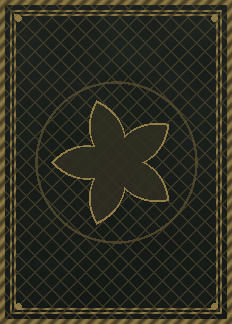
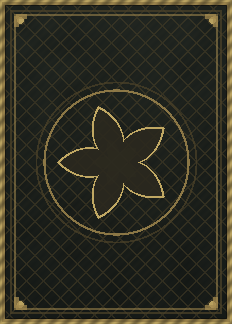
feat: polish card frames with depth, art vignette, and richer card back
Cards gain layered visual depth: paper-textured inner frame, artwork
vignette and sheen, brass corner brackets, role-tinted trim, and jewel
rarity pips. The generated card back adds herringbone weave, beveled
brass rails, and corner flourishes for a more premium table feel.

diff --git a/tools/generate_ui_assets.py b/tools/generate_ui_assets.py
@@ -241,15 +241,17 @@ def gen_battlefield_bg(path: str) -> None:
 def gen_card_back(path: str) -> None:
     W, H = 232, 324
     px = bytearray(W * H * 4)
-    base_top = (0.115, 0.135, 0.120)
-    base_bottom = (0.085, 0.10, 0.090)
-    brass = (0.60, 0.51, 0.29)
-    brass_dim = (0.34, 0.30, 0.185)
-    noise = value_noise(SEED + 11, 8, 12)
+    base_top = (0.118, 0.138, 0.122)
+    base_bottom = (0.082, 0.098, 0.088)
+    brass = (0.64, 0.54, 0.31)
+    brass_hi = (0.78, 0.68, 0.40)
+    brass_dim = (0.30, 0.26, 0.16)
+    noise = value_noise(SEED + 11, 10, 14)
+    weave = value_noise(SEED + 12, 6, 8)
 
     cx, cy = W / 2, H / 2
-    star_outer = 64.0
-    star_inner = 0.42
+    star_outer = 58.0
+    star_inner = 0.40
 
     for y in range(H):
         v = y / (H - 1)
@@ -257,36 +259,66 @@ def gen_card_back(path: str) -> None:
             u = x / (W - 1)
             base = mix(base_top, base_bottom, v)
             n = noise(u, v)
-            base = (base[0] * (0.93 + 0.14 * n), base[1] * (0.93 + 0.14 * n), base[2] * (0.93 + 0.14 * n))
+            w = weave(u * 1.4, v * 1.2)
+            base = (base[0] * (0.91 + 0.16 * n), base[1] * (0.91 + 0.16 * n), base[2] * (0.91 + 0.16 * n))
+            # subtle herringbone weave in the inner field
+            hb = abs((x + y) % 9 - 4.5) / 4.5
+            if 14 < min(x, y, W - 1 - x, H - 1 - y) < 108:
+                base = mix(base, brass_dim, (1.0 - hb) * 0.08 * (0.55 + 0.45 * w))
+
+            # radial spotlight behind emblem
+            dxs, dys = (x - cx) / (W * 0.42), (y - cy) / (H * 0.48)
+            spot = clamp01(1.0 - math.hypot(dxs, dys))
+            base = mix(base, (0.16, 0.15, 0.11), spot * 0.10)
 
             # diagonal lattice (45 deg, period 17px)
             d = (x + y) % 17
             if d <= 1 or (x - y) % 17 in (0, 1):
-                base = mix(base, brass_dim, 0.55)
+                base = mix(base, brass_dim, 0.48)
 
-            # borders: outer 5px, inner 2px at inset 11
             inset = min(x, y, W - 1 - x, H - 1 - y)
-            if inset < 5 or (10 <= inset <= 11) or (14 <= inset <= 15):
-                edge = 0.75 + 0.25 * math.sin((x + y) * 0.5)
-                col = (brass[0] * edge, brass[1] * edge, brass[2] * edge)
-                base = mix(base, col, 0.9)
+            # outer brass rail with bevel
+            if inset < 5:
+                edge = 0.70 + 0.30 * math.sin((x + y) * 0.45)
+                col = mix(brass_dim, brass_hi if inset < 2 else brass, edge)
+                base = mix(base, col, 0.92)
+            elif inset == 5:
+                base = mix(base, (0.05, 0.04, 0.03), 0.55)
+            elif 10 <= inset <= 11:
+                base = mix(base, brass_dim, 0.72)
+            elif 14 <= inset <= 15:
+                base = mix(base, brass, 0.55)
 
-            # center star emblem
+            # center star emblem with inner ring
             dx, dy = x - cx, y - cy
             dist = math.hypot(dx, dy)
             theta = (math.atan2(dy, dx) / (2 * math.pi) + 1.0) % 1.0
             sr = star_radius(theta, 5, star_inner) * star_outer
+            if dist <= sr * 0.42:
+                base = mix(base, brass_dim, 0.35)
             if dist <= sr:
-                base = mix(base, (0.19, 0.18, 0.135), 0.88)   # dark fill
-            if abs(dist - sr) <= 1.4:
-                base = mix(base, brass, 0.95)                # brass outline
-            if abs(dist - (star_outer + 16)) <= 1.2:         # halo ring
-                base = mix(base, brass_dim, 0.8)
+                base = mix(base, (0.17, 0.16, 0.12), 0.90)
+            if abs(dist - sr) <= 1.5:
+                base = mix(base, brass_hi, 0.96)
+            if abs(dist - (star_outer + 14)) <= 1.1:
+                base = mix(base, brass, 0.82)
+            if abs(dist - (star_outer + 22)) <= 0.9:
+                base = mix(base, brass_dim, 0.70)
 
             # corner rivets just inside inner border
-            for rx, ry in ((18, 18), (W - 18, 18), (18, H - 18), (W - 18, H - 18)):
-                if math.hypot(x - rx, y - ry) <= 3.2:
-                    base = mix(base, brass, 0.9)
+            for rx, ry in ((20, 20), (W - 20, 20), (20, H - 20), (W - 20, H - 20)):
+                rd = math.hypot(x - rx, y - ry)
+                if rd <= 3.4:
+                    base = mix(base, brass_hi, 0.92)
+                elif rd <= 4.6:
+                    base = mix(base, brass_dim, 0.55)
+
+            # corner bracket flourishes
+            for ox, oy, sx, sy in ((16, 16, 1, 1), (W - 17, 16, -1, 1), (16, H - 17, 1, -1), (W - 17, H - 17, -1, -1)):
+                if abs(x - ox) <= 10 and abs(y - oy) <= 2 and (x - ox) * sx >= 0:
+                    base = mix(base, brass, 0.75)
+                if abs(y - oy) <= 10 and abs(x - ox) <= 2 and (y - oy) * sy >= 0:
+                    base = mix(base, brass, 0.75)
 
             o = (y * W + x) * 4
             px[o] = int(clamp01(base[0]) * 255); px[o + 1] = int(clamp01(base[1]) * 255)
